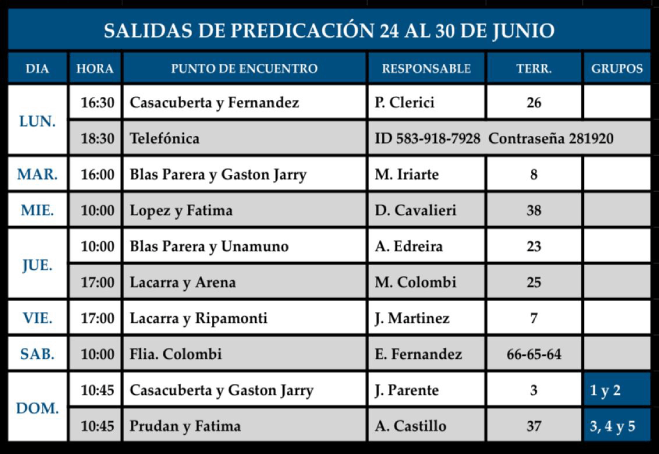
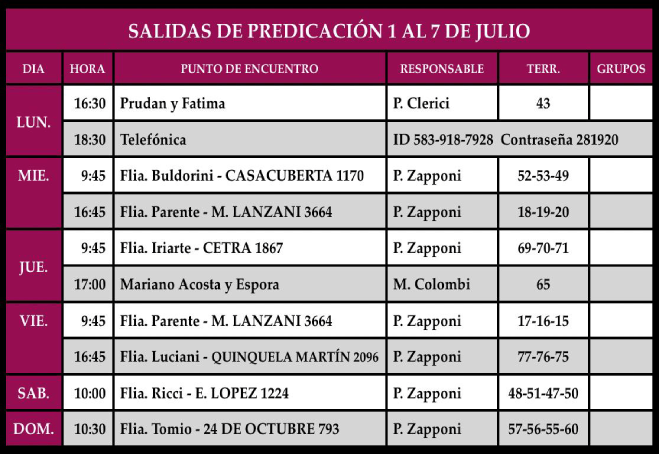
actualizo salida, limpieza y programa

diff --git a/pages/programaSemanal/programaSemanal.html b/pages/programaSemanal/programaSemanal.html
@@ -39,8 +39,9 @@
     <main>
         <section class="reuSemanal">
             <h2> Programa para la reunión entre semana</h2>
-            <img src="./asignacionesJunio1.png" alt="">
-            <img src="./asignacionesJunio2.png" alt="">
+            <img src="./asignacionesJulio1.png" alt="">
+            <img src="./asignacionesJulio2.png" alt="">
+            <img src="./asignacionesJulio3.png" alt="">
         </section>
     </main>
     <footer>
